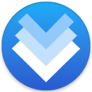
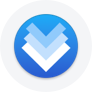
🧑🎨

diff --git a/about/index.html b/about/index.html
@@ -132,7 +132,7 @@
         </p>
     </section>
     <section class="experience-item">
-        <img class="employer-icon no-print" src="img/projects/studies_ios.png" title="The Mental Faculty B.V.">
+        <img class="employer-icon no-print" src="img/shops/MentalFaculty.png" title="The Mental Faculty B.V.">
         <h4 class="role">macOS &amp; iOS Engineer</h4>
         <p class="employment-info"><a href="https://www.mentalfaculty.com">The Mental Faculty B.V.</a>, 2016, freelance</p>
         <p>
